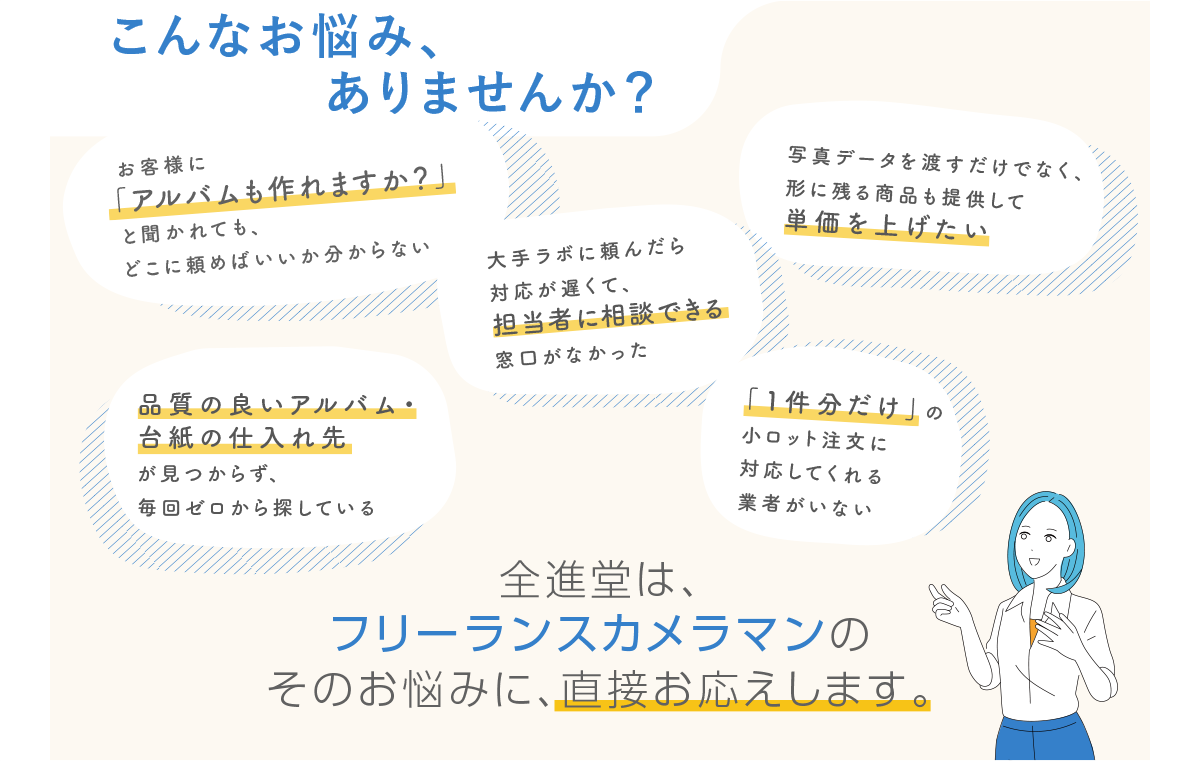
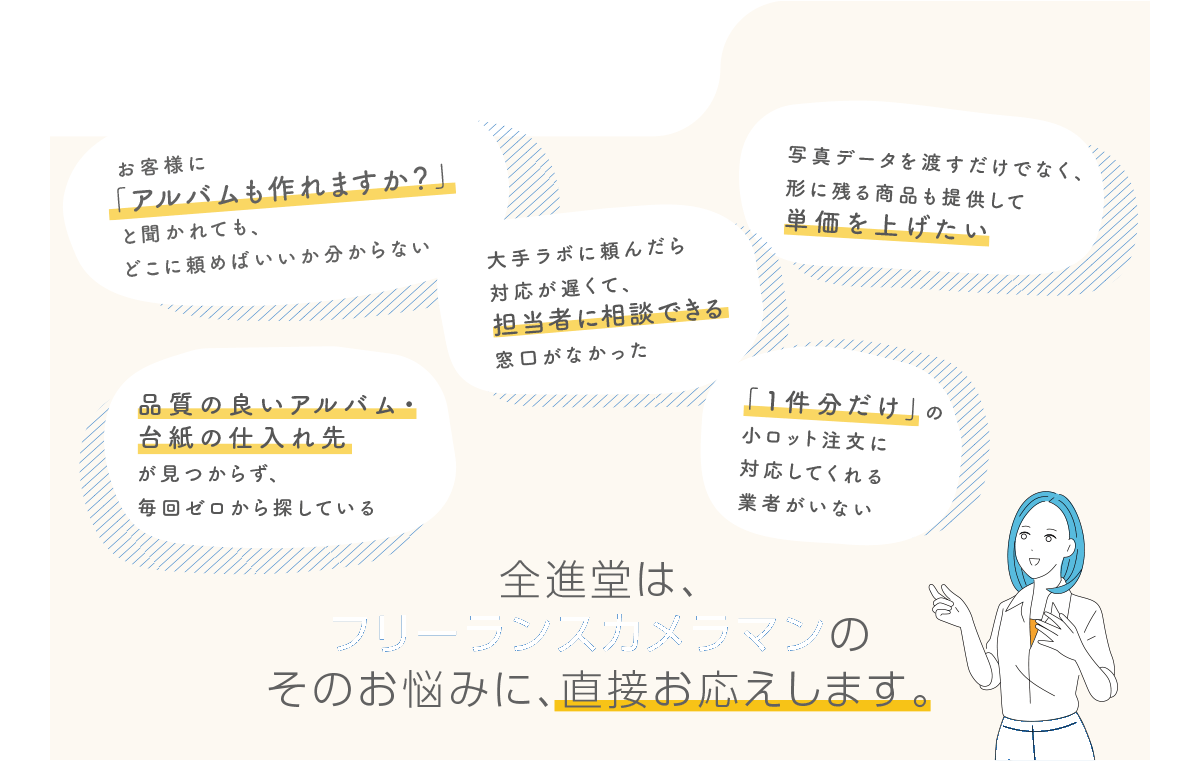
仮スマホ

Changed region(s): [[0.0925, 0.0, 0.555, 0.1511], [0.2775, 0.7858, 0.6475, 0.8463], [0.8325, 0.9369, 0.925, 1.0]]

diff --git a/style.css b/style.css
@@ -1217,4 +1217,29 @@ footer
     .reasons_list_item {
         width: 100%;
     }
+
+    .company_infomation_list {
+        display: flex;
+        flex-wrap: wrap;
+        gap: 2rem;
+        position: initial;
+        justify-content: center;
+    }
+
+    .company_infomation .message_box {
+        padding: 0 0 3rem 0;
+        margin: 0 auto;
+        border-left: none;
+        border-bottom: none;
+        position: initial;
+        width: 100%;
+    }
+
+    .company_infomation_img {
+        float: none;
+    }
+
+    h2.company_infomation_title {
+        position: initial;
+    }
 }
